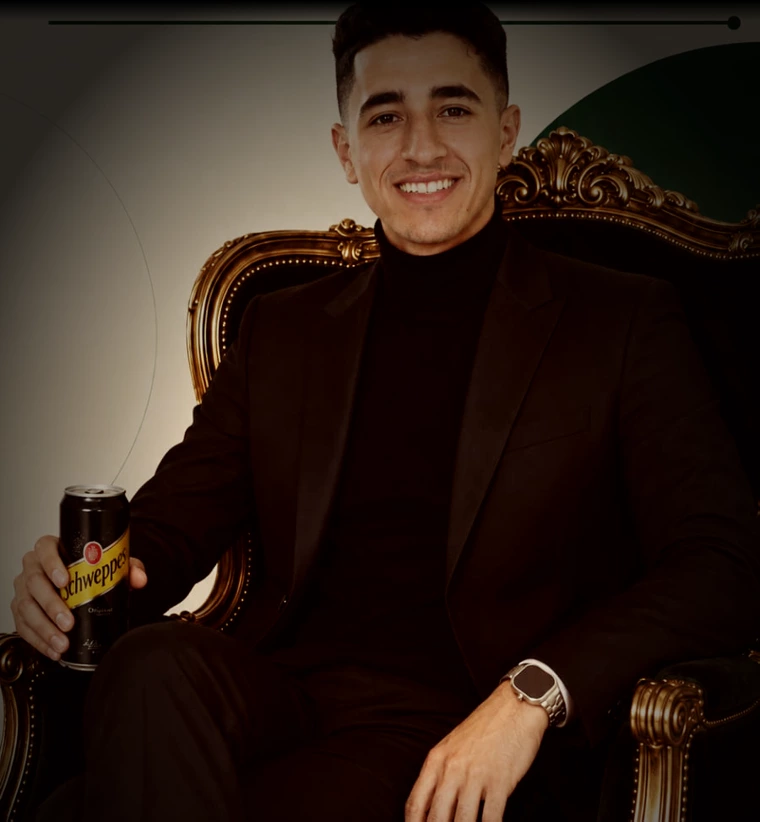
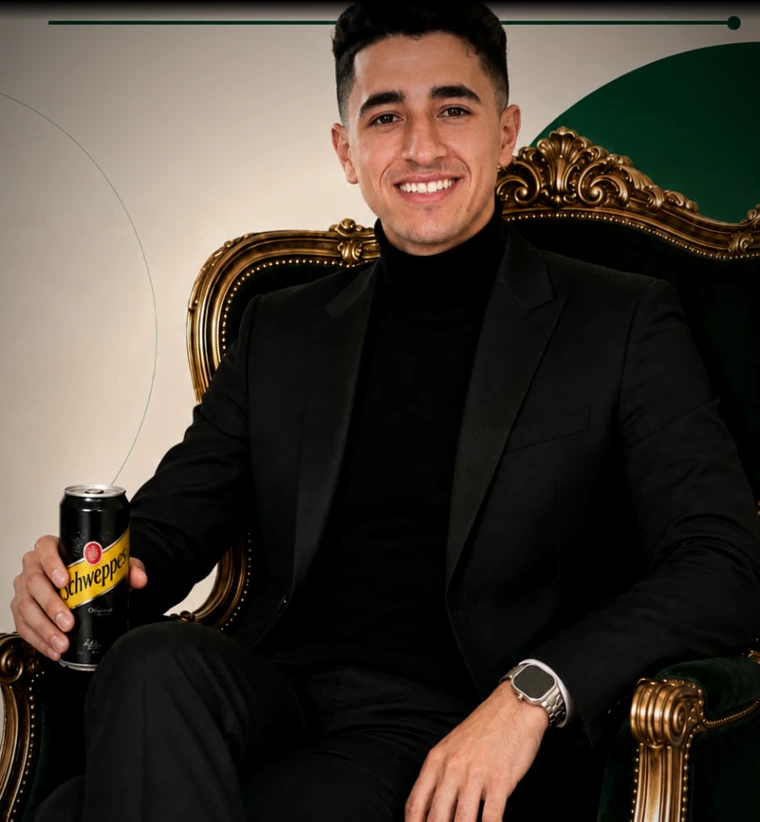
Keep the card portrait in its original colours, move crimson to the frame
The previous pass warmed the whole photo toward red, which pulled the face
and suit away from how they look in the shot. Red now surrounds the portrait
instead of covering it.

- avatar.webp is regenerated with no colour balance: just the crop below the
  headline text, a touch of contrast, and a neutral edge falloff to mute the
  green circle in the corner
- The crimson moves into LanyardCard as an inset glow hugging the border plus
  a hairline ring, so the centre of the image is untouched
- Drops the old full-frame crimson wash and the gradient plate behind it

source-media/README records both rejected approaches — the background key and
the red grade — so neither gets retried.

Claude-Session: https://claude.ai/code/session_011Hm43Fk7vKVAqGhMPXy5dZ

diff --git a/components/LanyardCard.tsx b/components/LanyardCard.tsx
@@ -93,7 +93,7 @@ export default function LanyardCard() {
           {/* Punch hole */}
           <div className="absolute left-1/2 top-2 h-1.5 w-9 -translate-x-1/2 rounded-full bg-black/70 ring-1 ring-white/10" />
 
-          <div className="relative mt-4 overflow-hidden rounded-xl bg-gradient-to-b from-crimson-deep/45 to-void">
+          <div className="relative mt-4 overflow-hidden rounded-xl bg-void">
             <div className="aspect-[3/3.25] w-full">
               {broken ? (
                 <PortraitPlaceholder />
@@ -109,8 +109,13 @@ export default function LanyardCard() {
                 />
               )}
             </div>
-            {/* Crimson key light wash over the portrait */}
-            <div className="pointer-events-none absolute inset-0 bg-gradient-to-t from-void via-transparent to-crimson/12" />
+            {/*
+              Crimson is confined to the edge: an inset glow hugging the
+              border plus a hairline ring. The photo itself stays untinted so
+              the face and suit read as they do in the original shot.
+            */}
+            <div className="pointer-events-none absolute inset-0 rounded-xl shadow-[inset_0_0_14px_2px_rgba(255,30,45,0.6),inset_0_0_38px_7px_rgba(140,15,24,0.32)]" />
+            <div className="pointer-events-none absolute inset-0 rounded-xl ring-1 ring-inset ring-crimson/70" />
           </div>
 
           <div className="mt-2.5 flex items-center justify-between rounded-lg bg-white/5 px-3 py-2">

diff --git a/source-media/README.md b/source-media/README.md
@@ -5,7 +5,7 @@ loads live in `public/assets/`.
 
 | Original | Becomes | Processing |
 | --- | --- | --- |
-| `chair-original.jpeg` | `public/assets/avatar.webp` | **Graded, not keyed.** An earlier version masked the background out and composited the subject over a crimson radial; the mask left visible artifacts along the left edge and around the hair, so it was abandoned. The shipped version is a straight crop starting below the headline text, with a warm curve, a red-leaning colour balance and a subject-centred falloff. No alpha is created, so there is nothing to fringe. |
+| `chair-original.jpeg` | `public/assets/avatar.webp` | **Kept in its original colours.** Two earlier attempts were dropped: keying the cream background out left fringing along the left edge and around the hair, and a red colour balance tinted the face and suit away from the shot. What ships is a crop starting below the headline text, a touch of contrast, and a neutral edge falloff — no red in the image at all. The crimson lives in the card frame instead (inset glow + hairline ring in `LanyardCard`), so the portrait reads exactly as photographed. |
 | `portrait-original.mp4` | `public/assets/hero-loop.mp4` + `hero-poster.jpg` | Desaturated and re-graded through a crimson duotone curve, so the blue studio backdrop reads red in the site palette. Scaled to 720px wide, H.264 CRF 27, audio stripped. |
 
 Both were produced with ffmpeg. The grade is baked in at encode time rather
